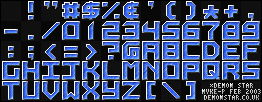
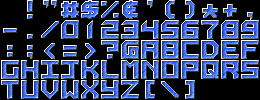
Use font5.png

diff --git a/include/scrolling_text.h b/include/scrolling_text.h
@@ -11,11 +11,12 @@
 #ifndef SCROLLING_TEXT_H_
 # define SCROLLING_TEXT_H_
 
-# define ST_FONT_PATH	"font/font2.png"
-# define ST_FONT_MAP	"ABCDEFGHIJKLMNOPQRSTUVWXYZ1234567890.,:;\"-()!?°"
-# define ST_FONT_CW	32
-# define ST_FONT_CH	39
-# define ST_FONT_CPL	10
+# define ST_FONT_PATH	"font/font5.png"
+# define ST_FONT_MAP_	" !\"#$% '()*+,-./0123456789:;<=>?@"
+# define ST_FONT_MAP	ST_FONT_MAP_"ABCDEFGHIJKLMNOPQRSTUVWXYZ[\\]"
+# define ST_FONT_CW	20
+# define ST_FONT_CH	20
+# define ST_FONT_CPL	13
 
 # define ST_TYPE_HRZ	1
 # define ST_TYPE_VRT	2

diff --git a/src/test_effect.c b/src/test_effect.c
@@ -15,7 +15,8 @@ float	saturate(float x)
   return (x < 1.0 ? (x > 0.0 ? x : 0.0) : 1.0);
 }
 
-void	*test_init(int argc, char **argv, int *pos)
+void	*test_init(int __attribute__ ((unused)) argc,
+		   char __attribute__ ((unused)) **argv, int *pos)
 {
   int	*counter;
 

diff --git a/src/scroller.c b/src/scroller.c
@@ -17,6 +17,7 @@ static void		render(t_scroller *app)
   const sfTexture	*texture;
 
   effect = app->effect_list;
+  sfRenderTexture_clear(app->texture, sfBlack);
   while (effect)
     {
       image = sfTexture_copyToImage(sfRenderTexture_getTexture(app->texture));
